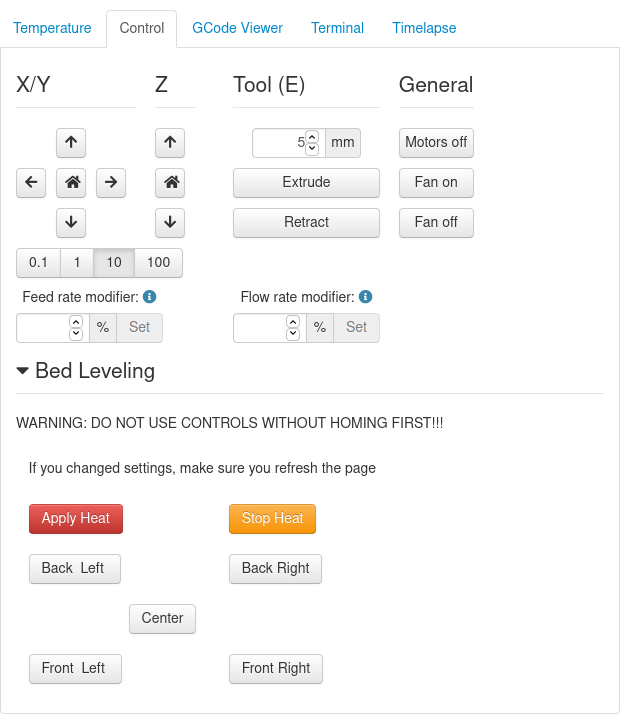
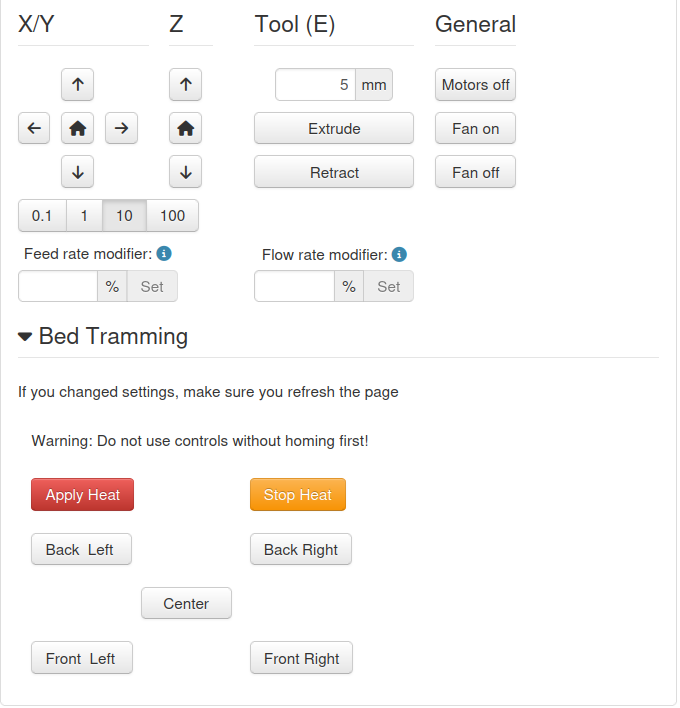
Rename 'Bed Leveling' to 'Manual Bed Tramming'

diff --git a/_plugins/CR10_Leveling.md b/_plugins/CR10_Leveling.md
@@ -2,20 +2,20 @@
 layout: plugin
 
 id: CR10_Leveling
-title: Bed Leveling
-description: Adds bed leveling buttons to the controls tab
+title: Manual Bed Tramming
+description: Adds bed tramming buttons to the controls tab
 authors:
 - lsellens
 - AvanOsch
 - electr0sheep
 license: AGPLv3
 date: 2018-02-26
-homepage: https://github.com/lsellens/OctoPrint-Cr10_leveling
-source: https://github.com/lsellens/OctoPrint-Cr10_leveling
-archive: https://github.com/lsellens/OctoPrint-Cr10_leveling/archive/master.zip
+homepage: https://github.com/lsellens/octoprint-manual_bed_tramming
+source: https://github.com/lsellens/octoprint-manual_bed_tramming
+archive: https://github.com/lsellens/octoprint-manual_bed_tramming/archive/master.zip
 tags:
 - ui
-- bed leveling
+- bed tramming
 screenshots:
 - url: /assets/img/plugins/CR10_Leveling/control.png
   alt: Control Tab
@@ -26,8 +26,8 @@ compatibility:
   python: '>=2.7, <4'
 ---
 
-This plugin adds buttons to apply heat to the bed and nozzle, and move the
-printing head to each of the four corners of the bed, as well as the center of
+This plugin adds buttons to apply heat to the bed, nozzle, chamber, and move the
+printing head to each of the four corners, as well as the center of
 the bed.
 
 The coordinates and temperatures can all be customized in the plugin's settings.
